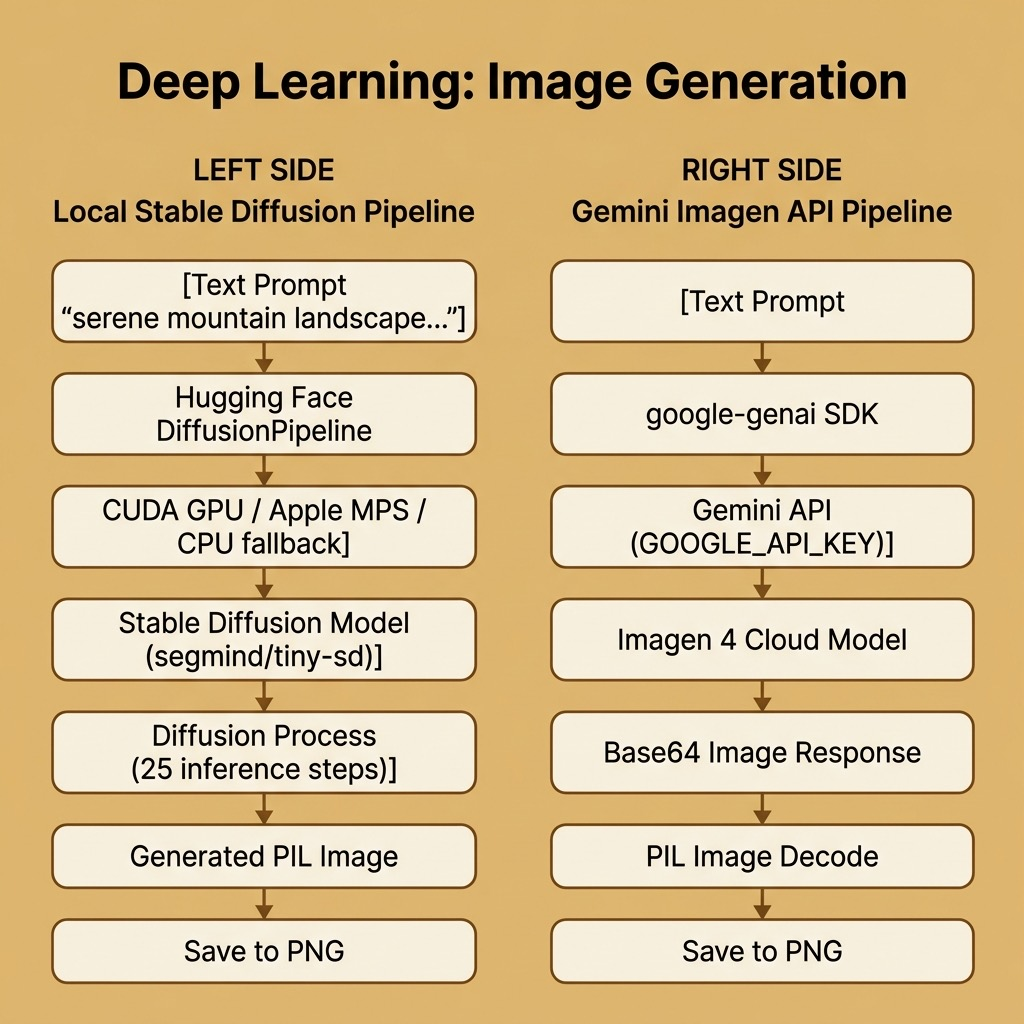
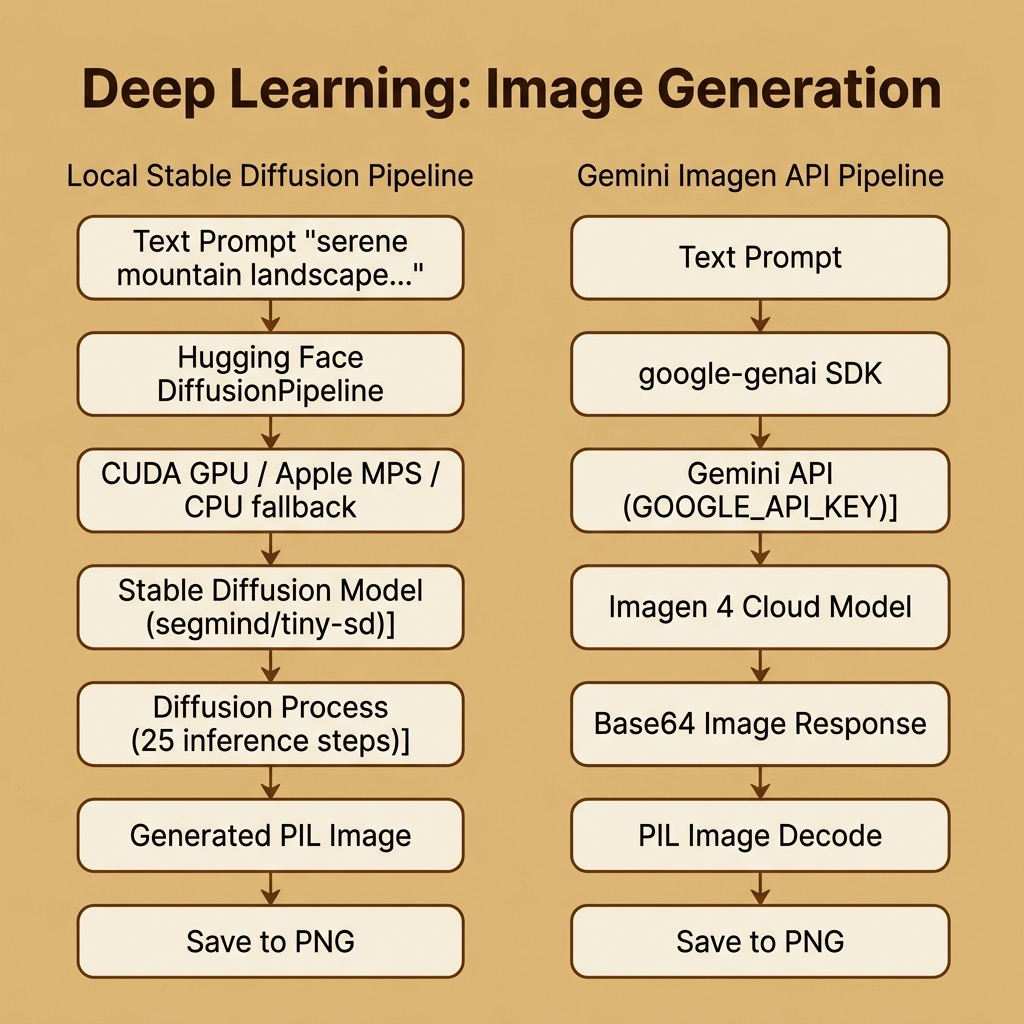
added a gemini image generation example

diff --git a/manuscript/LLM_4_local_models.md b/manuscript/LLM_4_local_models.md
@@ -298,6 +298,11 @@ Prompt caching is especially valuable for applications like document Q&A, where 
 
 Ollama also supports vision models, allowing you to pass an image along with your text prompt so the model can analyze the visual content. You just need to ensure you're using a vision-capable model (like `llava` or `qwen3.5`) and include the image path in your message.
 
+Here is the sample image we will use for this example:
+
+{width: "50%"}
+![Sample ticket image used as input for the vision model](FIG_ticket.png)
+
 Here is an example of asking a vision model to describe an image:
 
 ```python
@@ -323,7 +328,31 @@ response = ollama.chat(
 print(response.message.content)
 ```
 
-This simple capability makes it easy to add image understanding to your local applications without needing complex computer vision pipelines.
+Here is abbreviated output from running this example:
+
+```bash
+$ uv run image_to_text_description.py
+This image is an event ticket from **Northern Arizona
+University (NAU)** for a performance called **"Fanfares
+and Fireworks."**
+
+**Event Details**
+- **Event Name**: *Fanfares and Fireworks*
+- **Event Date**: Friday, September 26, 2025
+- **Time**: 7:30 PM (AZ)
+- **Venue**: Ardrey Memorial Auditorium
+- **Performance**: Flagstaff Symphony Orchestra
+
+**Ticket Information**
+- **Ticket Type**: *Early Bird Tickets* / *New Subscriber C3*
+- **Ticket Price**: $53.00 (Service Fee: $0.00)
+- **Section**: Main Level, Row M, Seat 31
+
+A QR code is displayed on the right side of the ticket
+for scanning at the venue.
+```
+
+Even this small 0.8B-parameter vision model extracts detailed structured information from the ticket image — event details, pricing, seating, and layout elements. This simple capability makes it easy to add image understanding to your local applications without needing complex computer vision pipelines.
 
 
 ## OpenAI-Compatible API
